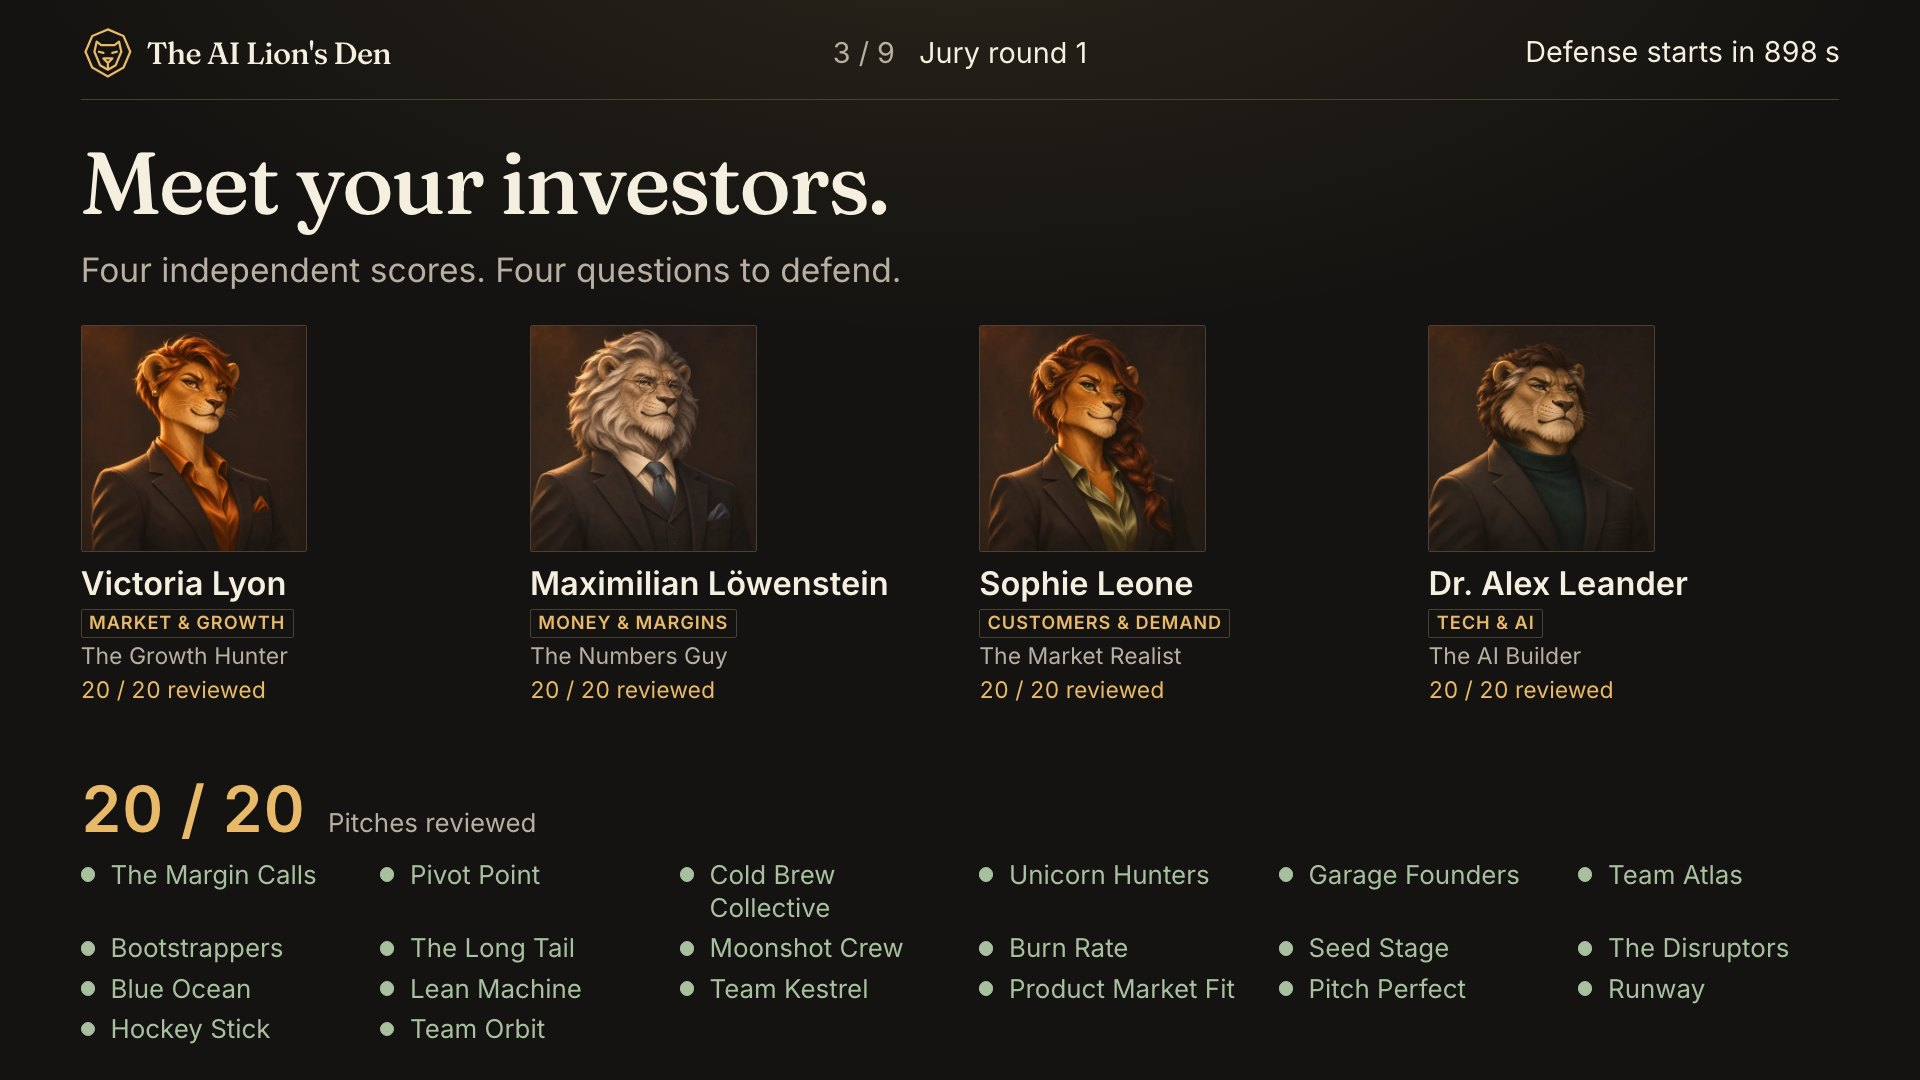
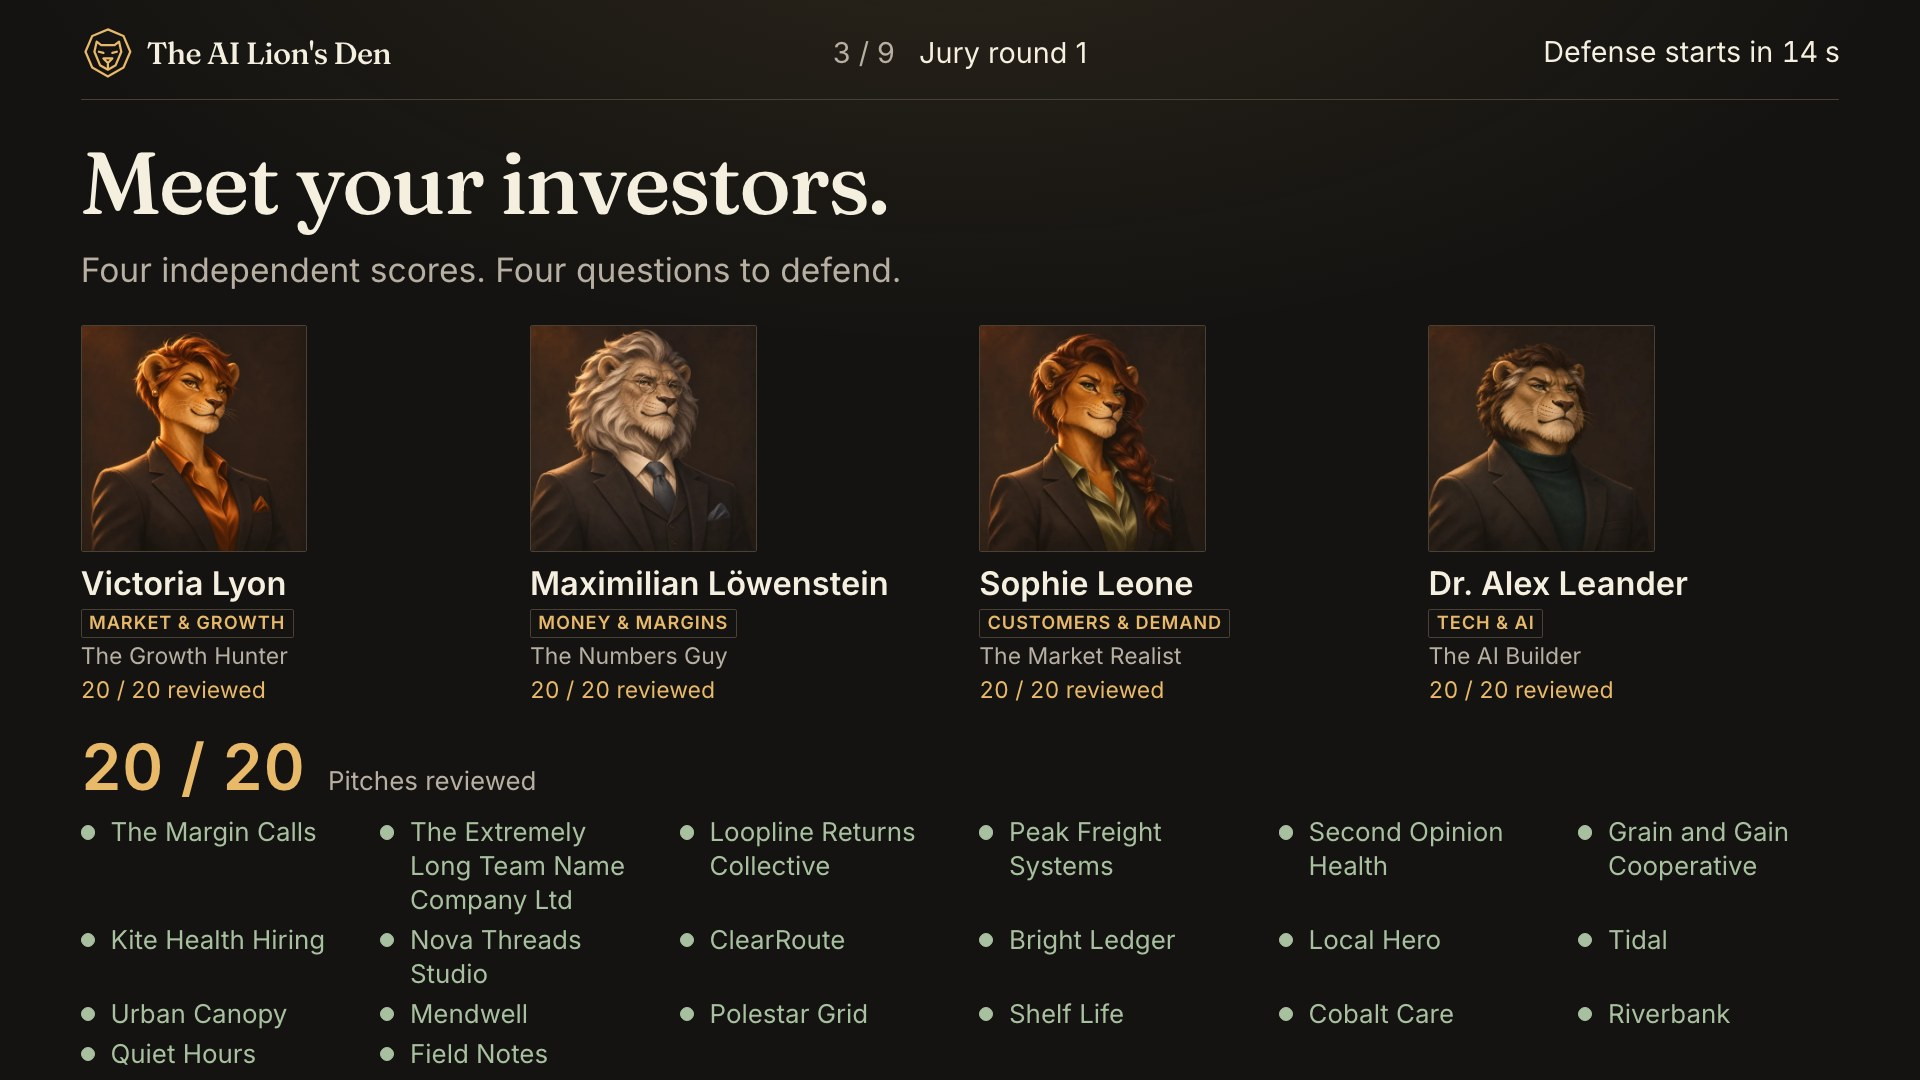
chore: tidy wording and refresh projector screenshot (#2)
## Summary
- Neutralise leftover wording in docstrings, comments, test names and
the benchmark docs; the 5 USD budget ceiling is now described as the
CLI's own safety limit (behaviour unchanged).
- Recapture the jury-round projector screenshot in demo mode so the
countdown shows a realistic value.
- Add a font licence credit to the README.

## Testing
- `uv sync --locked`, `uv run pytest`, `uv run ruff check .`, `uv run
ruff format --check .`
- `npm ci && npm run typecheck && npm run build`

diff --git a/scripts/layout_harness.py b/scripts/layout_harness.py
@@ -37,7 +37,7 @@ DEMO_DELAY_MS = 2
 # The team view is captured as the very long team name, the hardest case.
 TEAM_VIEW_INDEX = 1
 
-# A representative set: 1920x1080 and 1280x720 are 16:9 classrooms, 1024x768 is
+# A representative set: 1920x1080 and 1280x720 are 16:9 projectors, 1024x768 is
 # the old 4:3 projector, 2560x1440 a large hall display. 125% and 80% browser
 # zoom are modelled as the CSS viewport the same physical screen produces.
 SCREEN_VIEWPORTS: tuple[tuple[int, int, str], ...] = (
@@ -65,7 +65,7 @@ MODERATOR_VIEWPORTS: tuple[tuple[int, int, str], ...] = (
     (1512, 982, "1512x982"),
 )
 
-# The CI run keeps every phase and the smallest and largest agreed viewport for
+# The CI run keeps every phase and the smallest and largest supported viewport for
 # each view. Browser zoom variants remain in the full audit only.
 CI_SESSION_PHASES = (
     "lobby",
@@ -1136,7 +1136,7 @@ def capture_all(
     directory: Path | None = None,
     full_matrix: bool = True,
 ) -> list[Capture]:
-    """Capture every view/phase/viewport combination in the agreed matrix."""
+    """Capture every view/phase/viewport combination in the defined matrix."""
     captures: list[Capture] = []
     team_token = session.teams[TEAM_VIEW_INDEX]["client"].cookies.get("jury_team")
     assert team_token, "seeded team has no session cookie"

diff --git a/backend/benchmark/cli.py b/backend/benchmark/cli.py
@@ -178,7 +178,7 @@ def main(argv: list[str] | None = None) -> int:
         print("error: --budget-usd must be finite and positive", file=sys.stderr)
         return 2
     if args.budget_usd >= 5:
-        print("error: --budget-usd must be under 5 USD", file=sys.stderr)
+        print("error: --budget-usd must be under 5 USD (the CLI's safety limit)", file=sys.stderr)
         return 2
 
     # Match the app: normal OPENAI_* settings can live in .env.

diff --git a/tests/test_validation.py b/tests/test_validation.py
@@ -90,7 +90,7 @@ def test_normalises_whitespace_and_rejects_overlong_text() -> None:
         )
 
 
-def test_accepts_classroom_length_assessments_statements_and_questions() -> None:
+def test_accepts_typical_length_assessments_statements_and_questions() -> None:
     assessment = (
         "Your pricing is concrete and the first market is plausible. The onboarding fee "
         "still hides the integration cost, which weakens the margin case."

diff --git a/tests/test_text_limits.py b/tests/test_text_limits.py
@@ -70,7 +70,7 @@ def _max_payload() -> dict[str, str]:
     return _max_pitch().model_dump(by_alias=True)
 
 
-def test_server_limits_are_the_agreed_values() -> None:
+def test_server_limits_match_the_defined_values() -> None:
     assert PITCH_LIMITS_BY_KEY == EXPECTED_PITCH_LIMITS
     assert DEFENSE_ANSWER_LIMIT == 1000
     assert DEFENSE_CHANGE_LIMIT == 1000

diff --git a/backend/config.py b/backend/config.py
@@ -1,8 +1,4 @@
-"""Application configuration, read from environment variables.
-
-The variable names match the previous TypeScript implementation so existing
-deployments and rehearsal notes keep working.
-"""
+"""Application configuration, read from environment variables."""
 
 from __future__ import annotations
 

diff --git a/tests/test_viewport_layout.py b/tests/test_viewport_layout.py
@@ -1,4 +1,4 @@
-"""Layout regressions across every view, phase and agreed viewport.
+"""Layout regressions across every view, phase and supported viewport.
 
 Set ``RUN_LAYOUT_CHECK=1`` after ``npm run build`` and
 ``uv run playwright install chromium`` to run the real app in demo mode and

diff --git a/backend/views.py b/backend/views.py
@@ -1,7 +1,7 @@
 """API view builders.
 
 These shapes are the contract with the React user interface and must stay
-stable: the UI was built against the previous TypeScript implementation.
+stable.
 """
 
 from __future__ import annotations

diff --git a/scripts/capture_layout.py b/scripts/capture_layout.py
@@ -1,5 +1,5 @@
 #!/usr/bin/env python3
-"""Capture every view and phase at the agreed viewports and report layout issues.
+"""Capture every view and phase at the supported viewports and report layout issues.
 
 Usage:
     npm run build

diff --git a/docs/lion-benchmark.md b/docs/lion-benchmark.md
@@ -24,7 +24,7 @@ Before the first call it prints the expected calls and estimated token cost and 
 unless `--confirm` is present. The default hard cap is 4 USD. Spend is computed from the
 reported prompt and completion tokens after every call, and a call is refused before the
 estimated worst case could cross the cap. Actual usage is recorded, so a final in-flight
-request can exceed the cap by that request; the 4 USD default remains below the 5 USD limit.
+request can exceed the cap by that request; the 4 USD default remains below the CLI's own safety limit: it refuses budgets of 5 USD or more.
 
 Expected cost at list prices: about 0.86 USD with `gpt-4.1-mini` for the full 30
 sessions without retries. With `gpt-4.1` the full three repeats would cost about 4.32 USD

diff --git a/README.md b/README.md
@@ -331,3 +331,5 @@ standalone project.
 ## License
 
 [MIT](LICENSE)
+
+Fonts: Inter and Fraunces, SIL Open Font License 1.1.
